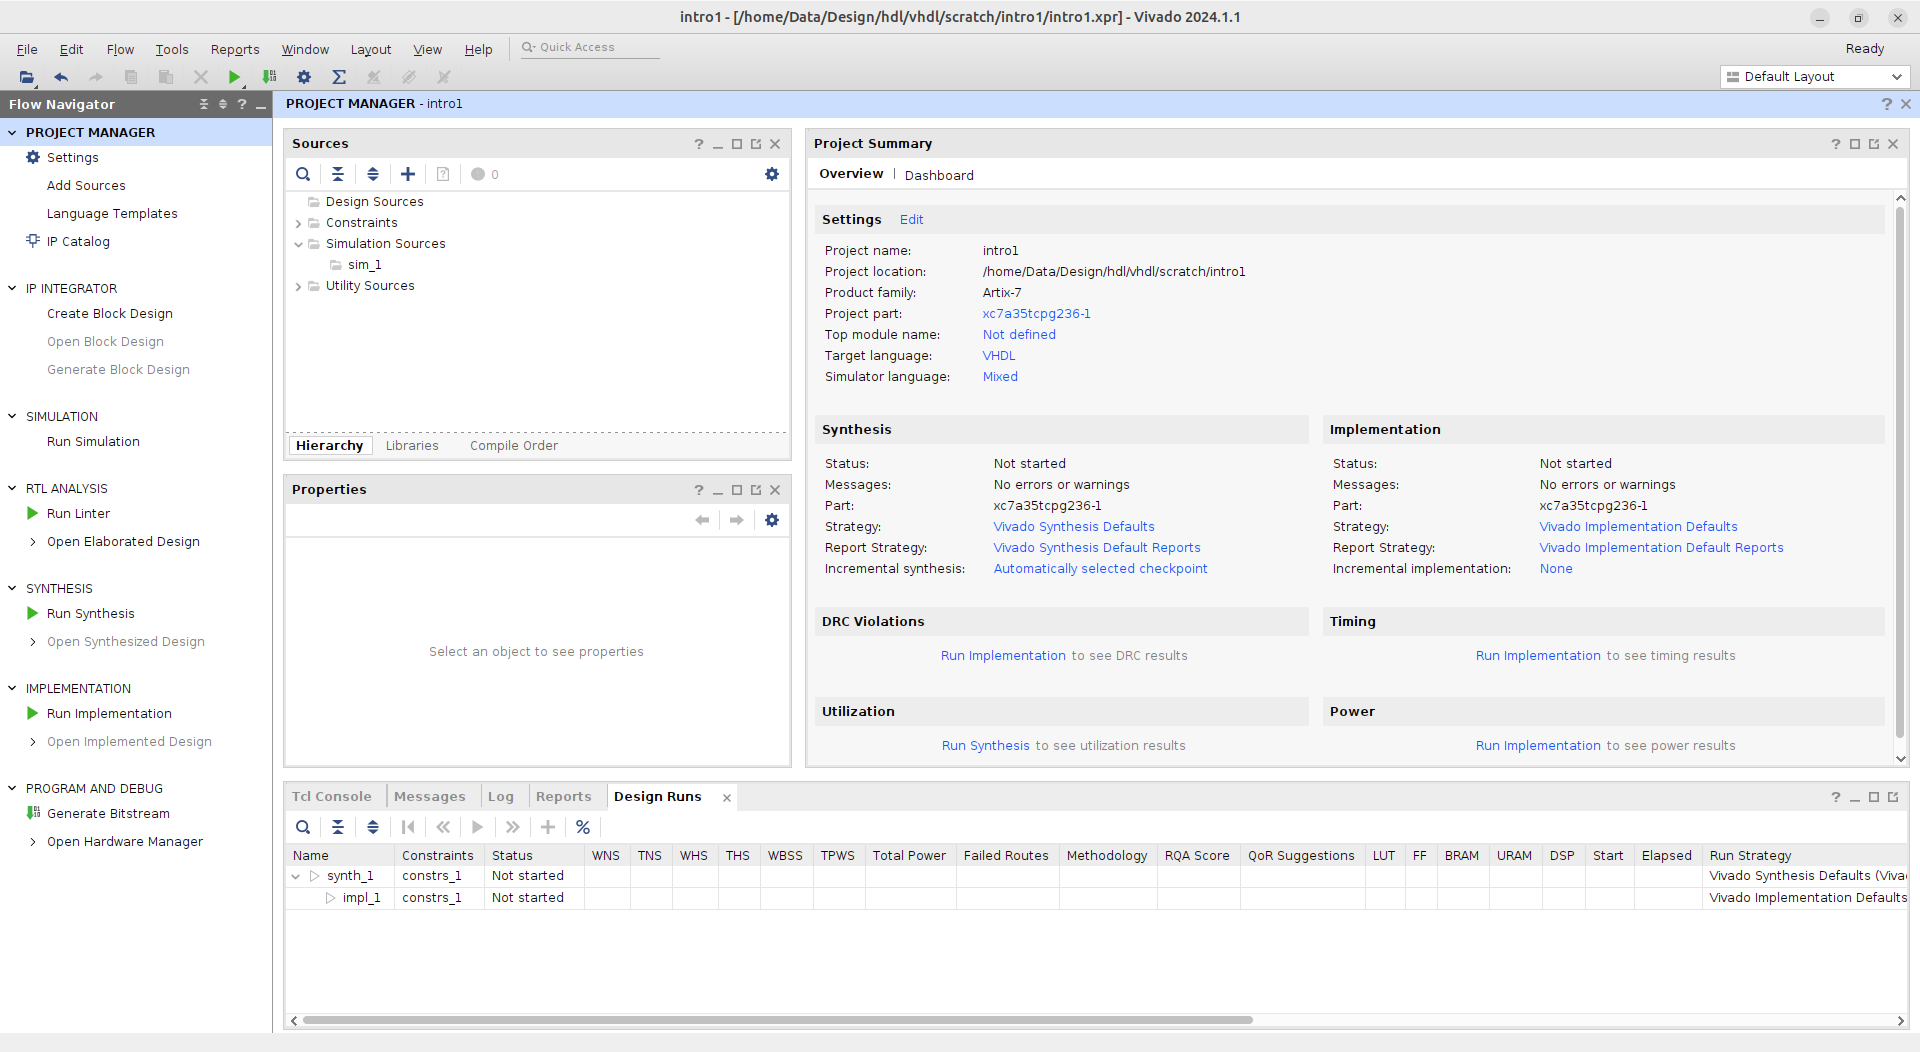
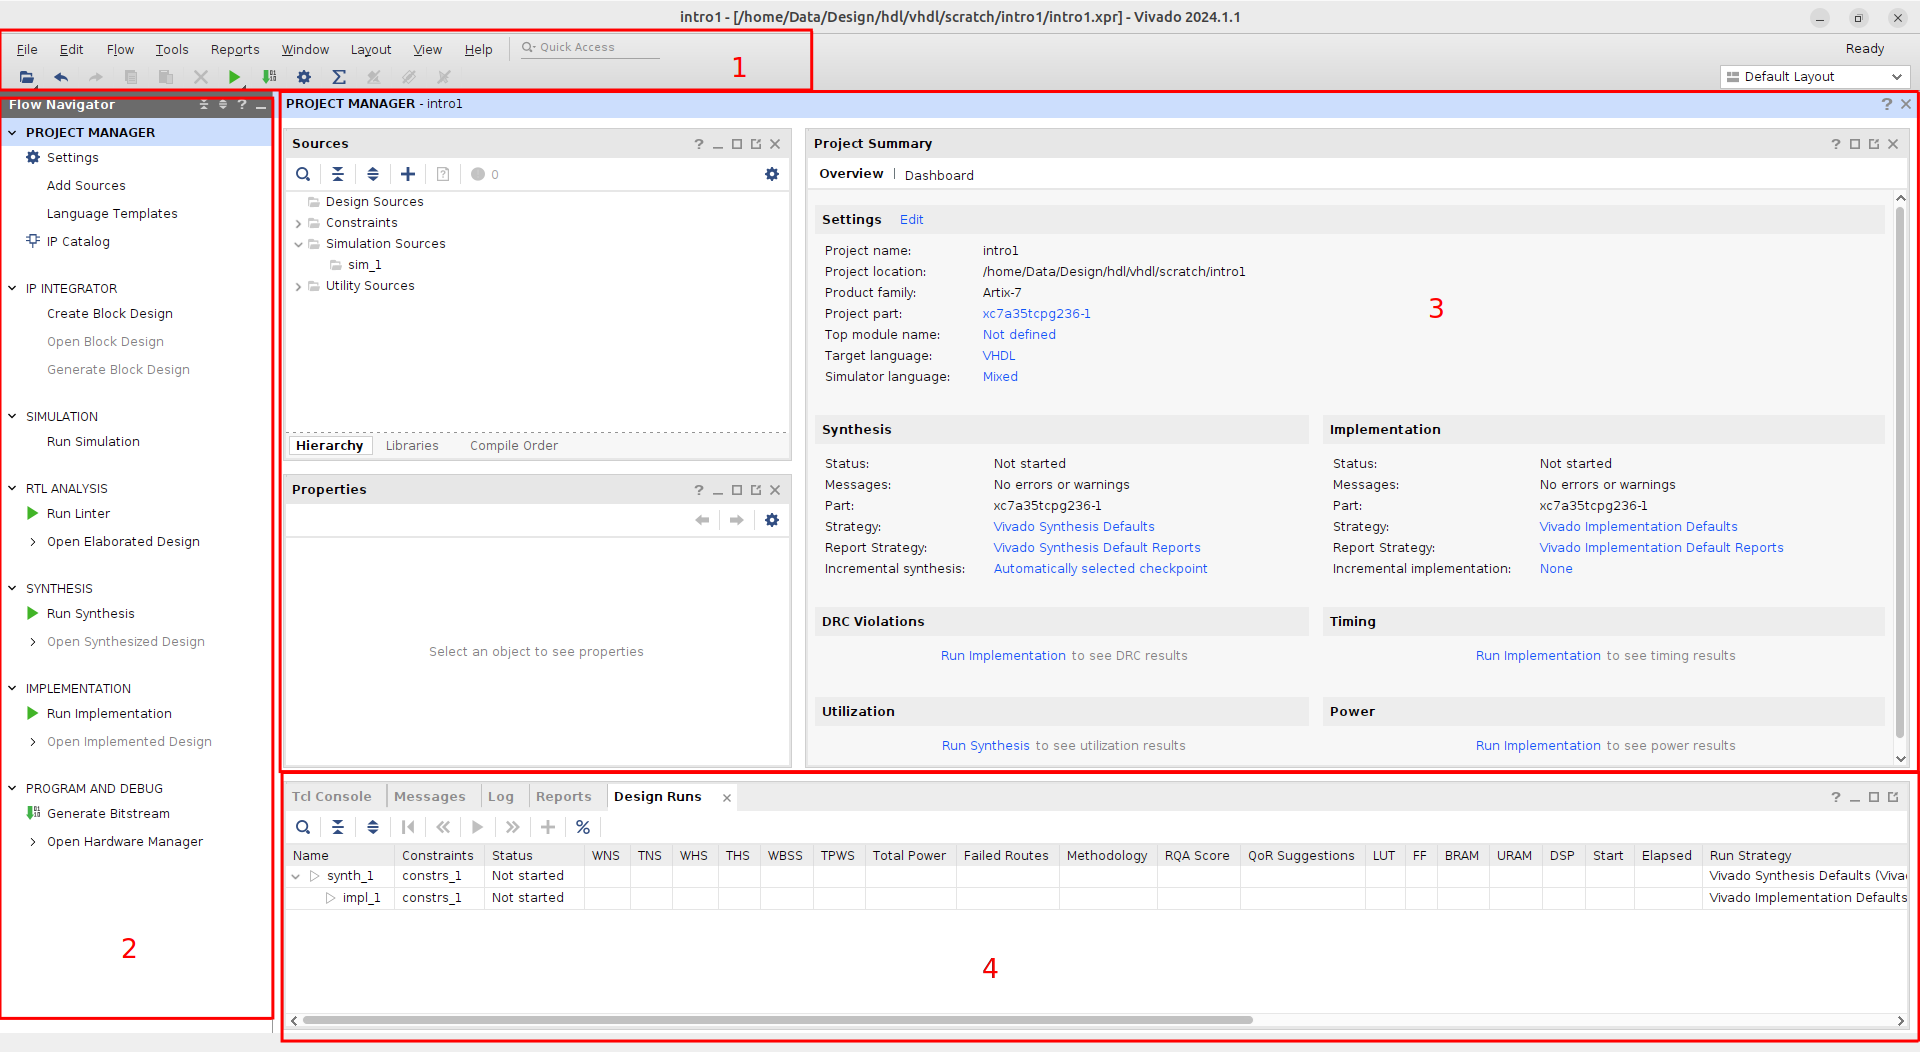
Some changes

Changed region(s): [[0.0, 0.0608, 1.0, 0.9734], [0.1562, 0.9734, 1.0, 1.0], [0.0, 0.0, 0.4062, 0.0304]]

diff --git a/vivado/vivado_intro/vivado_intro.md b/vivado/vivado_intro/vivado_intro.md
@@ -28,6 +28,11 @@
 
 ![Vivado GUI](images/viv_002.png)
 
+* The Vivado GUI has four areas (marked in red):
+  * 1: Menu and tool bar
+  * 2: Flow Navigator
+  * 3: Tool window
+  * 4: Console, messages, reports etc. (named tab area in the following)
 * The correct specification of the FPGA component is particularly important for the implementation and the correct assignment of the pins. If the wrong component is selected, the FPGA will not be able to be configured correctly later. The creation of the Vivado project is now complete.
   * _Note_: The exact specification of the FPGA part is only necessary if you plan to download the bitfile at the end of this tutorial to the _Basys 3_ board. If you do not have the board, you can select any other part from the _Artix-7_ family. 
 
@@ -53,17 +58,17 @@
 
 * In this section we will simulate the design using the testbench.
 * To start the simulator, click on `Run Simulation > Run Behavioral Simulation` in the _Flow Navigator_ under _Simulation_. The simulator window should open up as shown in the next image.
-  * _Note_: Vivado is an integrated development environment that starts various tools such as project management, simulator, synthesis or implementation via the _Flow Navigator_ and displays them in an integrated window. Whenever you start a tool a new window will open up in the central area of Vivado and gets stacked on top of the previous tool. You can close a tool by pushing the symbol `X` in the blue title area of the tool (last symbol to the right) and you will be back to the previous tool window. On the bottom of this window stack you should always have the _Project Manager_ window, which you should not close because that would close the complete project.
+  * _Note_: Vivado is an integrated development environment that starts various tools such as project management, simulator, synthesis or implementation via the _Flow Navigator_ and displays them in an integrated window. Whenever you start a tool a new window will open up in the central tool window of Vivado and gets stacked on top of the previous tool window. You can close a tool by pushing the symbol `X` in the blue title area of the tool (last symbol to the right) and you will be back to the previous tool window. On the bottom of this window stack you should always have the _Project Manager_ window, which you should not close because that would close the complete project.
 
 ![Simulation](images/viv_006.png)
 
-* Under the _Scope_ tab (on the left side of the simulator window) you can see the hierarchical structure of your design. The test bench _counter_tb_ is at the top level, and below that is the counter _counter_ (instance name _dut_, see testbench). The ports, signals and constants defined for the module currently selected under _Scope_ are listed in the _Objects_ window; these can in turn be transferred to the waveform window on the right side using _drag & drop_. By default, the signal curves (a.k.a. _waveforms_) of all objects at the top hierarchy level are displayed, in this case the test bench.
-* To the right of _Scope_ and _Objects_, the signal curves of the selected signals are displayed in a _Waveform Window_. By default, 1000 ns are simulated, but this default setting can be changed in the _Flow Navigator_ under `Settings > Simulation` before the next start of the simulator. In the _Waveform Window_ you will find a bar at the top with buttons for zooming and other functions. To see the complete signal curve, for example, use the `Zoom Fit` button.
+* Under the _Scope_ tab (on the left side of the simulator window) you can see the hierarchical structure of your design. The test bench _counter_tb_ is at the top level, and below that is the counter _counter_ (instance name _dut_, see testbench). The ports, signals and constants defined for the module currently selected under _Scope_ are listed in the _Objects_ window; these can in turn be transferred to the _Waveform Window_ on the right side using _drag & drop_. By default, the signal curves (a.k.a. _waveforms_) of all objects at the top hierarchy level are displayed, in this case the test bench.
+* By default, 1000 ns are simulated, but this default setting can be changed in the _Flow Navigator_ under `Settings > Simulation` before the next start of the simulator. In the _Waveform Window_ you will find a bar at the top with buttons for zooming and other functions. To see the complete signal curve, for example, use the `Zoom Fit` button.
   * _Note_: Hover with the mouse over the symbols in the _Waveform Window_ and you will see the function of the symbols. 
 * If you want to see internal signals from the _counter_, then select the instance name _dut_ under _Scope_ and then you can select the corresponding signals under _Objects_ using the right mouse button: In the context menu that appears, you can then add the signal using `Add To Wave Window`. 
 * However, you will not yet see any signal curves for the new signals. To see them, you must restart the simulator: The Vivado toolbar was expanded above the simulator window when the simulator was started (marked in red in the previous image). There you will find several blue buttons; if you hover the mouse over them, the function is shown. You can use the `Restart` button to reset the simulator to time 0. You can now enter a new simulation time in the toolbar field (e.g. 100 ns) and simulate the corresponding time using the `Run for ...` button (showing the time you entered in the field). 
   * _Note_: Do not use the `Run All` button, because then simulation will run without stopping and you must stop it manually with the `Break` button.
-* You can also enter these commands directly in the _Tcl Console_ which you can find in the lower area of the Vivado GUI as shown in the next image (the commands you have entered so far are also displayed there), this can be more practical. The commands are for example: _restart_ and _run 100 ns_. If you enter _run \<time\>_ several times, the simulation will continue accordingly with the time you entered. Only a _restart_ will reset the simulation.
+* You can also enter these commands directly in the _Tcl Console_ which you can find in the lower tab area of the Vivado GUI as shown in the next image (the commands you have entered so far are also displayed there), this can be more practical. The commands are for example: _restart_ and _run 100 ns_. If you enter _run \<time\>_ several times, the simulation will continue accordingly with the time you entered. Only a _restart_ will reset the simulation.
 
 ![Simulation](images/viv_007.png)
 
@@ -85,11 +90,11 @@
 ## Synthesis
 * The next step is _Synthesis_: It maps the VHDL design onto the components available in the FPGA (flip-flops, look-up tables, multiplexers, RAM). The synthesis can also reveal design errors that may not be visible in the simulation (e.g. incomplete sensitivity lists or incompletely coded IF conditions). It is therefore highly recommended to examine the messages (warnings) of the synthesis in depth.
 * In the _Flow Navigator_ under _Synthesis_ click on `Run Synthesis`. Do not change anything in the dialog window and confirm with `OK`. The synthesis run will take some time (around 30 secs depending on the compute power of your computer); you can see how far the synthesis has progressed in the Vivado window at the bottom in the tab `Design Runs`.
-* When the synthesis run is finished, a window opens. Select `View Reports`. The `Reports` tab is now highlighted at the bottom of the Vivado window. Double-clicking on the reports opens them in an editor window. The next image shows an excerpt from the _Utilization Report_, in which you can see that 4 slice LUTs and 6 flip-flops are required to implement the design.
+* When the synthesis run is finished, a window opens. Select `View Reports`. The `Reports` tab is now highlighted at the bottom tab area. Double-clicking on the reports opens them in an editor window. The next image shows an excerpt from the _Utilization Report_, in which you can see that 4 slice LUTs and 6 flip-flops are required to implement the design.
 
 ![Synthesis](images/viv_009.png)
 
-* Any warnings or errors will be displayed in the `Messages` tab. When you switch off the `Info` you will get a better overview over the warnings. There are warnings for every tool and when you select `Synthesis` you should see only one warning `[Synth 8-7080] Parallel synthesis criteria is not met
+* Any warnings or errors will be displayed in the `Messages` tab (bottom tab area). When you switch off the `Info` you will get a better overview over the warnings. There are warnings for every tool and when you select `Synthesis` you should see only one warning `[Synth 8-7080] Parallel synthesis criteria is not met
 `, which means that the design is to small for a parallel synthesis. 
 * When you later on write your own code then please check in the `Messages` tab that there are no incomplete sensitivity lists or latches caused by incomplete signal assignments. These are not errors, just warnings, i.e. your code will be implemented in hardware, but you may end up with hardware that does not work correctly.
 * In the _Flow Navigator_ under _Synthesis_ click on `Open Synthesized Design`. If you now click on `Schematic` in the _Flow Navigator_ under _Synthesis_, a window will appear with a schematic drawing of the implementation of your code in the target technology, as shown in the next image.
@@ -101,7 +106,7 @@
 
 * In this section, the _constraints_ for the design are to be defined. The constraints are necessary for the implementation. What is definitely needed is the assignment of the ports of the VHDL code to the pins of the FPGA. Furthermore, you can (and should) also specify timing constraints. In the simplest case, this is the specification of the maximum clock frequency that the design should be able to achieve.
 * If the synthesized design is not open, click `Open Synthesized Design` under _Synthesis_ in the _Flow Navigator_.
-* In the Vivado toolbar, click _Layout_ and select the _I/O Planning_ layout for Vivado instead of the _Default Layout_. You should then get a view like the following image. The properties of the I/O ports can be defined under the _I/O Ports_ tab at the bottom. This is where the ports are assigned to the FPGA pins, the I/O standards are set, and other features such as driver strength or the _Slew Rate_ are defined. 
+* In the Vivado toolbar, click `Layout` and select the `I/O Planning` layout for Vivado instead of the _Default Layout_. You should then get a view like the following image. The properties of the I/O ports can be defined under the _I/O Ports_ tab at the bottom. This is where the ports are assigned to the FPGA pins, the I/O standards are set, and other features such as driver strength or the _Slew Rate_ are defined. 
 
  ![Constraints](images/viv_011.png)
 
@@ -109,12 +114,12 @@
 
  ![Constraints](images/viv_012.png)
 
-* Save the constraints by selecting `File > Constraints > Save` in the Vivado toolbar. Confirm the message that the synthesis results may subsequently be out of date with OK. In the following dialog, give the file the name `constr.xdc`.
-* To define the constraints for the system clock, click on _Constraints Wizard_ under _Synthesis_ in the _Flow Navigator_. In the start window of the _Timing Constraints Wizard_ click once on _Next_. In the following dialog you can enter the frequency of the clock signal _clk_ as shown in the next image. Under _Recommended Constraints_ enter the value 100 in _Frequency (MHz)_ (the frequency of the clock oscillator on the BASYS3 board is 100 MHz). Below you can see how this will be entered in the constraint file.
+* Save the constraints by selecting `File > Constraints > Save` in the Vivado menu bar. Confirm the message that the synthesis results may subsequently be out of date with OK. In the following dialog, give the file the name `constr.xdc`.
+* To define the constraints for the system clock, click on `Constraints Wizard` under _Synthesis_ in the _Flow Navigator_. In the start window of the _Timing Constraints Wizard_ click once on `Next`. In the following dialog you can enter the frequency of the clock signal _clk_ as shown in the next image. Under _Recommended Constraints_ enter the value `100` in _Frequency (MHz)_ (the frequency of the clock oscillator on the BASYS3 board is 100 MHz). Below you can see how this will be entered in the constraint file.
 
 ![Constraints](images/viv_013.png)
 
-* Skip all other dialog windows with _Skip to Finish_ and close the last dialog with Finish. In the _Sources_ tab open the constraint file `constr.xdc`. You should see here the same constraints as shown in the next image (the order may be different). Control all lines and if there are differences to the image below, then you can correct this in this file. This constraints file is the basis for the following implementation.
+* Skip all other dialog windows with `Skip to Finish` and close the last dialog with `Finish`. In the _Sources_ tab open the constraint file `constr.xdc`. You should see here the same constraints as shown in the next image (the order may be different). Check all lines and if there are differences to the image below, then you can correct this in this file. This constraints file is the basis for the following implementation.
 
 ![Constraints](images/viv_014.png)
 
@@ -124,11 +129,11 @@
 ---
 ## Implementation
 
-* In this section, the _implementation_ is used to place the components on the FPGA and then wire them up. This process is also called _Place&Route_.
-* In the _Flow Navigator_ under _Implementation_ click on _Run Implementation_. If you get a message saying that the synthesis is _out of date_, click on _Yes_. This will run the synthesis again. Basically, Vivado checks the time stamps of the source files (VHDL codes, constraints, etc.) and restarts the relevant tools that are affected and also runs all the previous steps again. That means if you have changed sources later, it is sufficient to simply click on the last step _Generate Bitstream_ again, so that all the necessary previous steps, such as synthesis and implementation, are then run again.
+* In this section, the _implementation_ is run in order to place the components on the FPGA and then do the routing. This process is also called _Place & Route_.
+* In the _Flow Navigator_ under _Implementation_ click on `Run Implementation`. If you get a message saying that the synthesis is _out of date_, click on `Yes`. This will run the synthesis again. Basically, Vivado checks the time stamps of the source files (VHDL codes, constraints, etc.) and restarts the relevant tools that are affected and also runs all the previous steps again. That means if you have changed sources later, it is sufficient to simply click on the last step `Generate Bitstream` again, so that all the necessary previous steps, such as synthesis and implementation, are then run again.
   * _Note_: When you start the implementation you will be asked for setting _Options_ for the synthesis run. The default is to launch runs on local host (your computer). You can set the number of jobs, which means that the synthesis run (and also the implementation run) will be tried to parallelize in order to use the multi-core architecture of your computer. 
-* After completing the implementation, click on _View Reports_ and check the messages in the _Messages_ tab. To check whether the _timing constraints_ you specified were met, you can search for _Route Design_ in the _Reports_ tab and open the _Timing Summary Report_ there. 
-* Now open the implemented design by clicking on _Open Implemented Design_. A further tab _Timing_ opens in the tab area at the bottom, in which you can find details about the timing . If you select _Intra Clock Paths_ in the navigation window on the left , you can see the _Intra Clock Paths_ tab as shown in the next image. Select `clk` and you can get more detailed information about the critical paths. 
+* After completing the implementation, click on `View Reports` and check the messages in the _Messages_ tab. To check whether the _timing constraints_ you specified were met, you can search for _Route Design_ in the _Reports_ tab and open the _Timing Summary Report_ there. 
+* Now open the implemented design by clicking on `Open Implemented Design`. A further tab _Timing_ opens in the tab area at the bottom, in which you can find details about the timing . If you select `Intra Clock Paths` in the navigation window on the left , you can see the _Intra Clock Paths_ tab as shown in the next image. Select `clk` and you can get more detailed information about the critical paths. 
 
 ![Timing analysis](images/viv_015.png)
   
@@ -138,11 +143,11 @@
 ## Creating the bit file and configuring the FPGA
 
 * Before the FPGA can be configured, the results of the implementation run must be converted into a _bitstream_ (a configuration file for the FPGA). The following steps are only necessary if you have an FPGA board available.
-* In the _Flow Navigator_ under _Program and Debug_ click on _Generate Bitstream_ and wait until the bitstream generation is finished.
-* If you have a Basys3 board available, connect it to the development computer with a USB cable and switch the board on.
-* When the bitstream generation is finished, you can click _Open Hardware Manager_. In the upper left corner of the _Hardware Manager_ window, click `Open Target > Auto Connect`. Make sure the board is turned on first!
+* In the _Flow Navigator_ under _Program and Debug_ click on `Generate Bitstream` and wait until the bitstream generation is finished.
+* If you have a _Basys 3_ board available, connect it to the development computer with a USB cable and switch the board on.
+* When the bitstream generation is finished, you can click `Open Hardware Manager`. In the upper left corner of the _Hardware Manager_ window, click `Open Target > Auto Connect`. Make sure the board is turned on first!
   * _Note_: If you can not connect to the board, check that the cable drivers for the board connections have been installed during installation of Vivado. You can find further information [here](https://docs.amd.com/r/en-US/ug973-vivado-release-notes-install-license/Installing-Cable-Drivers).
-* You should now see the view shown in the next image. If you now click on `Program Device` (marked in red), you can download the bitstream by clicking on `Program`. The FPGA will now be programmed. When this process is finished, the _DONE_ LED on the board should light up and your design is be ready for testing on the board!
+* You should now see the view shown in the next image. If you now click on `Program Device` (marked in red), you can download the bitstream by clicking on `Program`. The FPGA will now be programmed. When this process is finished, the _DONE_ LED on the board should light up and your design is  ready for testing on the board!
   * _Note_: If no bit file appears under _Program Device_, it is usually because you may have selected the wrong FPGA type when creating the Vivado project. When the Hardware Manager connects to the FPGA, the type designation is read out (window _Hardware Device Properties_). If this does not match the type designation in the bit file, the bit file is not automatically entered for download. If this has happened, you must go to _Settings_ in the Project Manager and correct the FPGA type (_xc7a35tcpg236-1_) and then go through all the steps again by simply clicking on _Generate Bitstream_.
 
 ![HW Manager](images/viv_016.png)

diff --git a/vivado/vivado_overview.md b/vivado/vivado_overview.md
@@ -12,4 +12,6 @@ The Vivado/Vitis tool version used is 2024.1. We assume that you have an install
 
 ---
 ## Additional Documentation
-* Documentation on Vivado can be found for example here: [UltraFast Design Methodology Guide for FPGAs and SoCs ](https://docs.amd.com/r/en-US/ug949-vivado-design-methodology).
+* Documentation on Vivado can be found for example here: 
+  * [UltraFast Design Methodology Guide for FPGAs and SoCs ](https://docs.amd.com/r/en-US/ug949-vivado-design-methodology) 
+  * [Vivado Design Suite User Guide: Getting Started](https://docs.amd.com/r/en-US/ug910-vivado-getting-started/Vivado-Design-Suite-Overview)
